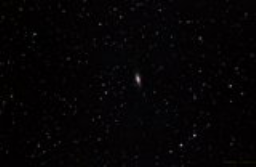
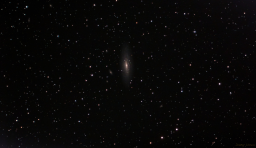
New gallery entries

diff --git a/_gallery/orions-belt.md b/_gallery/orions-belt.md
@@ -1,0 +1,21 @@
+---
+title: "Orion's Belt"
+type: Constellation
+tags: ["Part of the constellation Orion (Ori)","The star Alnilam (εOri)","The star Alnitak (ζOri)","The star Mintaka (δOri)","IC434","NGC2024","The star σOri","IC431","IC432","NGC2023","The star 31Ori","IC 423","IC 426","Flame Nebula","Orion B"]
+description:
+image: /assets/images/gallery/orions-belt/thumb.jpg
+telescope: Sony ILCE-6300
+length: "210mm"
+aperture: "33mm"
+folder: orions-belt
+exposure: 1
+lights: 327
+sessions: 1
+firstCapture: 2021-11-01 
+lastCapture:
+ra: "5h 35m 56.6s"
+dec: "-1° 19' 10.333"
+size: "272.12 x 214.733 arcmin"
+radius: "2.889 deg"
+scale: "2.867 arcsec/pixel"
+---

diff --git a/_gallery/ngc7635-bubble-nebula.md b/_gallery/ngc7635-bubble-nebula.md
@@ -9,13 +9,13 @@ length: "400mm"
 aperture: "80mm"
 folder: ngc7635
 exposure: 10
-lights: 301
-sessions: 1 
+lights: 852
+sessions: 3 
 firstCapture: 2021-08-04 
-lastCapture:
-ra: "23h 20m 41.3s"
-dec: "+61° 11' 57.881"
-size: "30.16 x 20.564 arcmin"
-radius: "0.304 deg"
-scale: "0.411 arcsec/pixel"
+lastCapture: 2021-10-29
+ra: "23h 21m 1.4s"
+dec: "+61° 13' 42.532"
+size: "57.709 x 32.977 arcmin"
+radius: "0.554 deg"
+scale: "0.618 arcsec/pixel"
 ---

diff --git a/_gallery/ngc7331.md b/_gallery/ngc7331.md
@@ -9,13 +9,13 @@ length: "400mm"
 aperture: "80mm"
 folder: ngc7331
 exposure: 10
-lights: 272
-sessions: 1
+lights: 600
+sessions: 4
 firstCapture:  2021-09-09
-lastCapture:
-ra: "22h 37m 15.5s"
-dec: "+34° 25' 54.758"
-size: "56.274 x 36.558 arcmin"
-radius: "0.559 deg"
-scale: "0.687 arcsec/pixel"
+lastCapture: 2021-11-01
+ra: "22h 37m 1.5s"
+dec: "+34° 26' 44.331"
+size: "54.832 x 31.704 arcmin"
+radius: "0.528 deg"
+scale: "0.412 arcsec/pixel"
 ---

diff --git a/_gallery/startrails.md b/_gallery/startrails.md
@@ -1,0 +1,17 @@
+---
+title: "Polar Alignment."
+type: Miscellaneous
+tags: ["polaris"]
+description: "Star trails around the north star."
+image: /assets/images/gallery/startrails/thumb.jpg
+telescope: Sony ILCE-6300
+length: "16mm"
+aperture: "4.57mm"
+folder: startrails
+exposure: 121
+lights: 10
+sessions: 1
+firstCapture: 2021-10-29
+lastCapture:
+noannotations: true
+---
